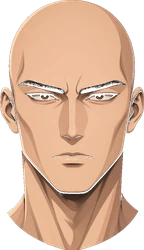
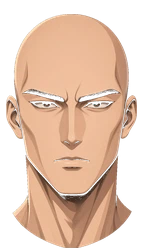
v0.399: [B] 여성 얼굴 6번 비율 보정·생성 얼굴 눈높이 정렬

Changed region(s): [[0.0, 0.0, 1.0, 1.0], [0.3611, 0.532, 0.6389, 0.7], [0.2222, 0.532, 0.2778, 0.644]]

diff --git a/index.html b/index.html
@@ -8,7 +8,7 @@
   <meta name="theme-color" content="#05080d">
   <link rel="preconnect" href="https://fonts.googleapis.com">
   <link rel="stylesheet" href="https://fonts.googleapis.com/css2?family=Black+Han+Sans&family=Chakra+Petch:wght@500;600;700&family=IBM+Plex+Sans+KR:wght@400;500;700&display=swap">
-  <link rel="stylesheet" href="dist/style.css?v=s2.0.398">
+  <link rel="stylesheet" href="dist/style.css?v=s2.0.399">
 </head>
 <body>
   <div id="app"></div>
@@ -26,6 +26,6 @@
       document.body.appendChild(d);
     });
   </script>
-  <script src="dist/game.js?v=s2.0.398"></script>
+  <script src="dist/game.js?v=s2.0.399"></script>
 </body>
 </html>

diff --git a/js/data.js b/js/data.js
@@ -1,5 +1,5 @@
 // 게임 버전 (화면 오른쪽 아래에 표시)
-const GAME_VERSION = '0.398';
+const GAME_VERSION = '0.399';
 
 // ===== 게이트 크로니클: 데이터 정의 =====
 // 귀곡팔황의 "경지"를 각성 등급으로, "오행"을 에테르 속성으로 옮겼다.

diff --git a/tools/expand_portrait_parts.py b/tools/expand_portrait_parts.py
@@ -150,19 +150,40 @@ def rect_for(kind: str, g: str, index: int, base_manifest: dict) -> list[int]:
 
 
 def import_generated_face(g: str, src: Path, size=(144, 250)) -> np.ndarray:
+    """생성 얼굴을 기존 파츠와 같은 눈·턱 높이에 맞춰 144×250으로 넣는다."""
     im = Image.open(src).convert('RGBA')
     arr = np.array(im)
-    # 거의 검정/단색 배경을 투명 처리
     rgb = arr[..., :3].astype(np.int16)
-    dark = (rgb.max(axis=-1) < 28) | ((rgb.max(axis=-1) < 45) & (np.abs(rgb[..., 0] - rgb[..., 1]) < 8) & (np.abs(rgb[..., 1] - rgb[..., 2]) < 8))
+    dark = (rgb.max(axis=-1) < 45) | ((rgb.max(axis=-1) < 70) & (np.ptp(rgb, axis=-1) < 12))
     arr[..., 3] = np.where(dark, 0, np.maximum(arr[..., 3], 255))
-    # 바운딩 박스 후 등록 크기로
-    alpha = arr[..., 3]
-    ys, xs = np.where(alpha > 10)
+    ys, xs = np.where(arr[..., 3] > 10)
     if len(xs) == 0:
         raise SystemExit(f'empty generated face: {src}')
-    crop = Image.fromarray(arr).crop((xs.min(), ys.min(), xs.max() + 1, ys.max() + 1))
-    return np.array(crop.resize(size, Image.Resampling.LANCZOS).convert('RGBA'), dtype=np.float32)
+    crop = Image.fromarray(arr).crop((int(xs.min()), int(ys.min()), int(xs.max()) + 1, int(ys.max()) + 1))
+    c = np.array(crop)
+    a = c[..., 3]; rgb = c[..., :3].astype(float)
+    h, w = a.shape
+    cx0, cx1 = w * 30 // 100, w * 70 // 100
+    chin = next((y for y in range(h - 1, -1, -1) if a[y, cx0:cx1].max() > 40), h - 1)
+    eye, best = int(h * 0.35), -1.0
+    for y in range(int(h * 0.2), int(h * 0.55)):
+        if a[y, cx0:cx1].max() < 40:
+            continue
+        score = float(rgb[y, cx0:cx1].std())
+        if score > best:
+            best, eye = score, y
+    ref_eye, ref_chin = 96, 248
+    scale = (ref_chin - ref_eye) / max(1, chin - eye)
+    nw, nh = max(1, int(round(crop.width * scale))), max(1, int(round(crop.height * scale)))
+    resized = crop.resize((nw, nh), Image.Resampling.LANCZOS)
+    ox, oy = (size[0] - nw) // 2, int(round(ref_eye - eye * scale))
+    canvas = Image.new('RGBA', size, (0, 0, 0, 0))
+    left, top = max(0, -ox), max(0, -oy)
+    right = nw - max(0, (ox + nw) - size[0])
+    bot = nh - max(0, (oy + nh) - size[1])
+    if right > left and bot > top:
+        canvas.alpha_composite(resized.crop((left, top, right, bot)), (max(0, ox), max(0, oy)))
+    return np.array(canvas.convert('RGBA'), dtype=np.float32)
 
 
 def build() -> dict:
